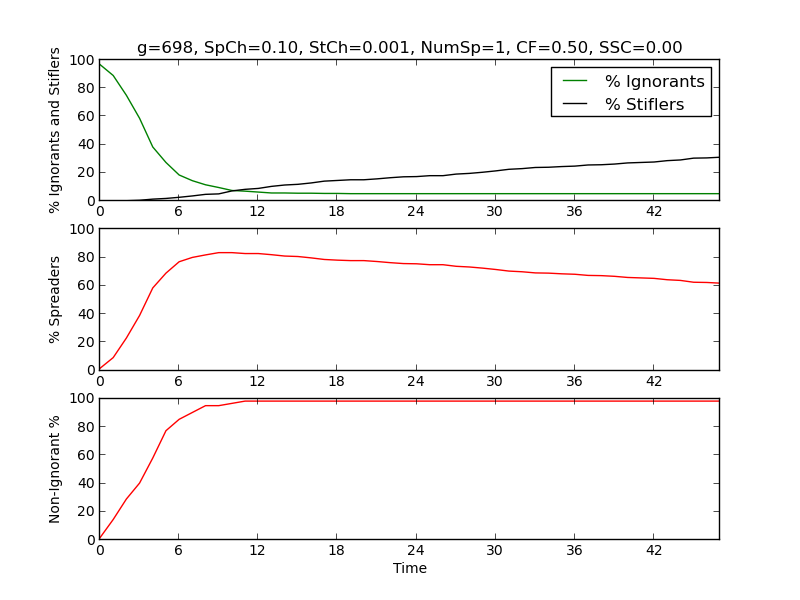
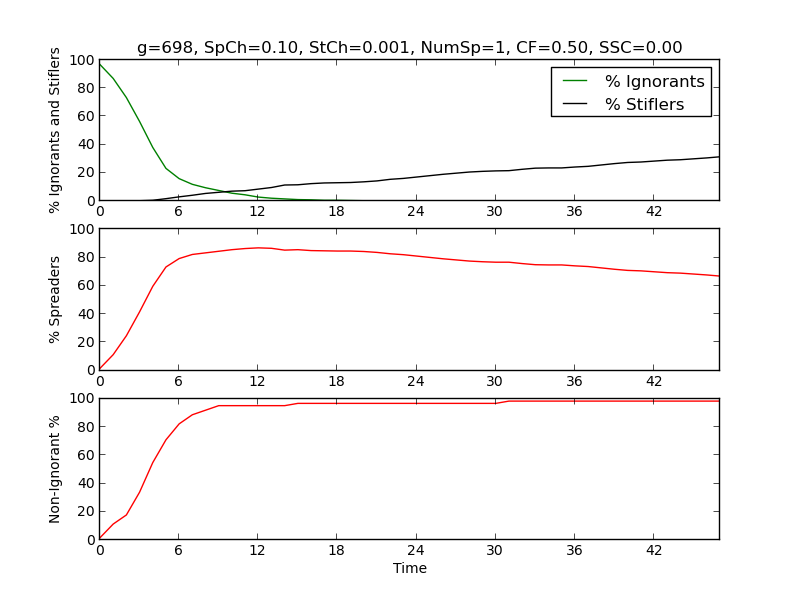
updates

diff --git a/src/simpleRumorModel.py b/src/simpleRumorModel.py
@@ -82,7 +82,7 @@ class SimpleRumorModel():
   def getContactFraction(self):
     if not self.useContactFractionFunction: return self.contactFraction
     unit = self.contactFraction
-    hour = self.t % 24 # 0 is noon
+    hour = (self.t+12) % 24 # t=0 is noon
     fractions = {
     "0" : .5,
     "1" : .4,
@@ -109,7 +109,7 @@ class SimpleRumorModel():
     "22" : 1.0,
     "23" : 0.7
     }
-    return unit * fractions[hour]
+    return unit * fractions[str(hour)]
 
   def doSpontaneousStifle(self, spreader):
     if random.random() < self.spontaneousStifleChance:
@@ -136,7 +136,7 @@ class SimpleRumorModel():
   def getContactedFriends(self, node): # is a generator
     friends = self.adjacencyMap[node]
     random.shuffle(friends)
-    num = int(self.contactFraction * self.size(friends))
+    num = int(self.getContactFraction() * self.size(friends))
     count = 0
     for friend in friends:
       if count == num: return
@@ -202,7 +202,7 @@ def prompt_user():
   return d
 
 
-def doModel(g, spch, stch, nsp, cf, ssc, ucff=True):
+def doModel(g, spch, stch, nsp, cf, ssc, count):
   #params = defaults() if check_default() else  prompt_user()
   graph = loadGraph(g)
 
@@ -213,7 +213,7 @@ def doModel(g, spch, stch, nsp, cf, ssc, ucff=True):
   avgSt = [0] * 100
   numRuns = 0
   while numRuns < 10:
-    model = SimpleRumorModel(graph, spch, stch, nsp, cf, ssc, ucff)
+    model = SimpleRumorModel(graph, spch, stch, nsp, cf, ssc, True)
     #model.displayCounts()
     minIterations = 5
     maxIterations = 48
@@ -249,14 +249,14 @@ def doModel(g, spch, stch, nsp, cf, ssc, ucff=True):
 
   
   #title = "SIR - "+", ".join(list(str(key) + ": " + str(params[key]) for key in params))
-  title = "g=%d, SpCh=%0.2f, StCh=%0.3f, NumSp=%d, CF=%0.2f, SSC=%0.2f" %(g, spch ,stch, nsp, cf, ssc )
+  title = "#%d, g=%d, SpCh=%0.2f, StCh=%0.3f, NumSp=%d, CF=%0.2f, SSC=%0.2f" %(count%32+1, g, spch ,stch, nsp, cf, ssc )
 
-  filename = "img/"+ str(g)+"/"+ re.sub('[^0-9a-zA-Z\.]+', '_', title)+".png"
+  filename = "imgtest/"+ str(g)+"/"+ re.sub('[^0-9a-zA-Z\.]+', '_', title)+".png"
   #filename = "img/tmp" +"/"+ re.sub('[^0-9a-zA-Z\.]+', '_', title)+".png"
   percIg = map(lambda x: x * 100.0 / float(N), avgIg)
   percSt = map(lambda x: x * 100.0 / float(N), avgSt)
   percSp = map(lambda x: x * 100.0 / float(N), avgSp)
-
+  pl.figtext(10,10, "test")
   pl.subplot(311)
   pl.plot(percIg, '-g', label='% Ignorants')
   pl.plot(percSt, '-k', label='% Stiflers')
@@ -290,9 +290,9 @@ def doModel(g, spch, stch, nsp, cf, ssc, ucff=True):
   print "percent yield : %0.2f" % percent_yield[-1]
 if __name__ == '__main__':
   #possibleGraphs = map(int, ("0  107  1684  1912  3437  348  3980  414  686  698".split("  ")))
-  possibleGraphs = [698,1912, 3437]
-  possibleSpCh = [.1,.5]
-  possibleStCh = [.001, .1]
+  possibleGraphs = [698,1912, 3437] # [0]
+  possibleSpCh = [.1,.5] # [.1, .50, 1]
+  possibleStCh = [.001, .1] # [.01, .1, .50 ]
   possibleNumSp= [1,25]#[1,5,25]
   possibleCF = [.05, .5]#[.01,.1,1.0]
   possibleSSF = [0, .2]#[0,.1,.5]
@@ -304,7 +304,7 @@ if __name__ == '__main__':
         for numsp in possibleNumSp:
           for cf in possibleCF:
             for ssf in possibleSSF:
-              count+=1
               pl.figure(count)
               print count
-              doModel(g,spch, stch, numsp, cf, ssf)
+              doModel(g,spch, stch, numsp, cf, ssf, count)
+              count+=1
